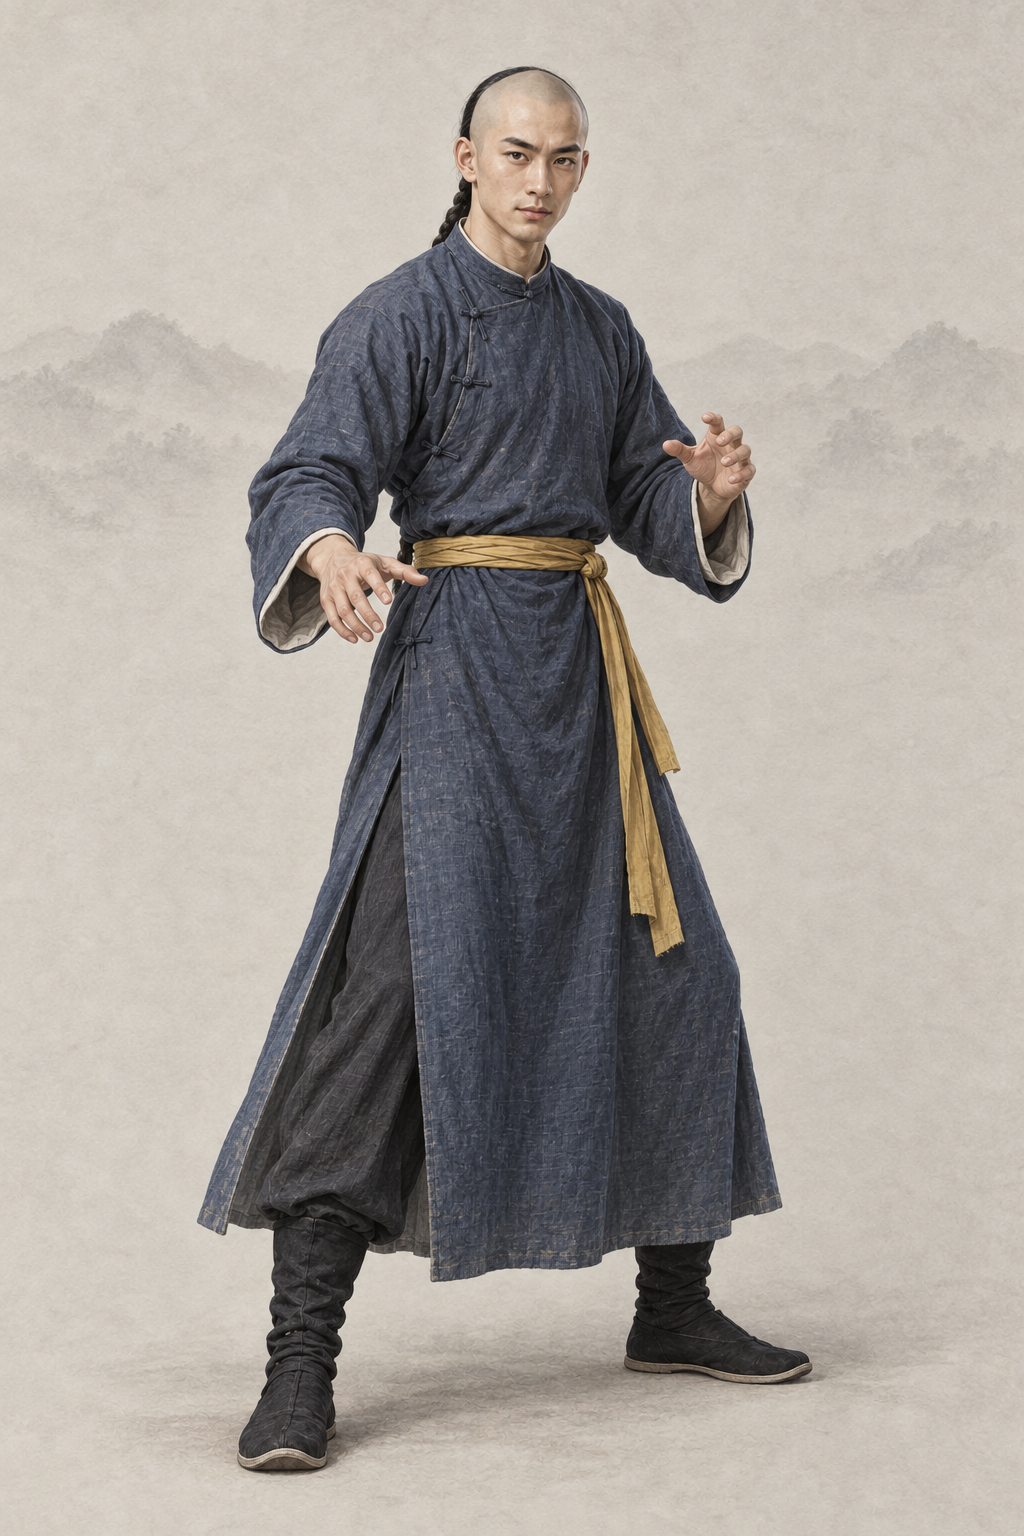
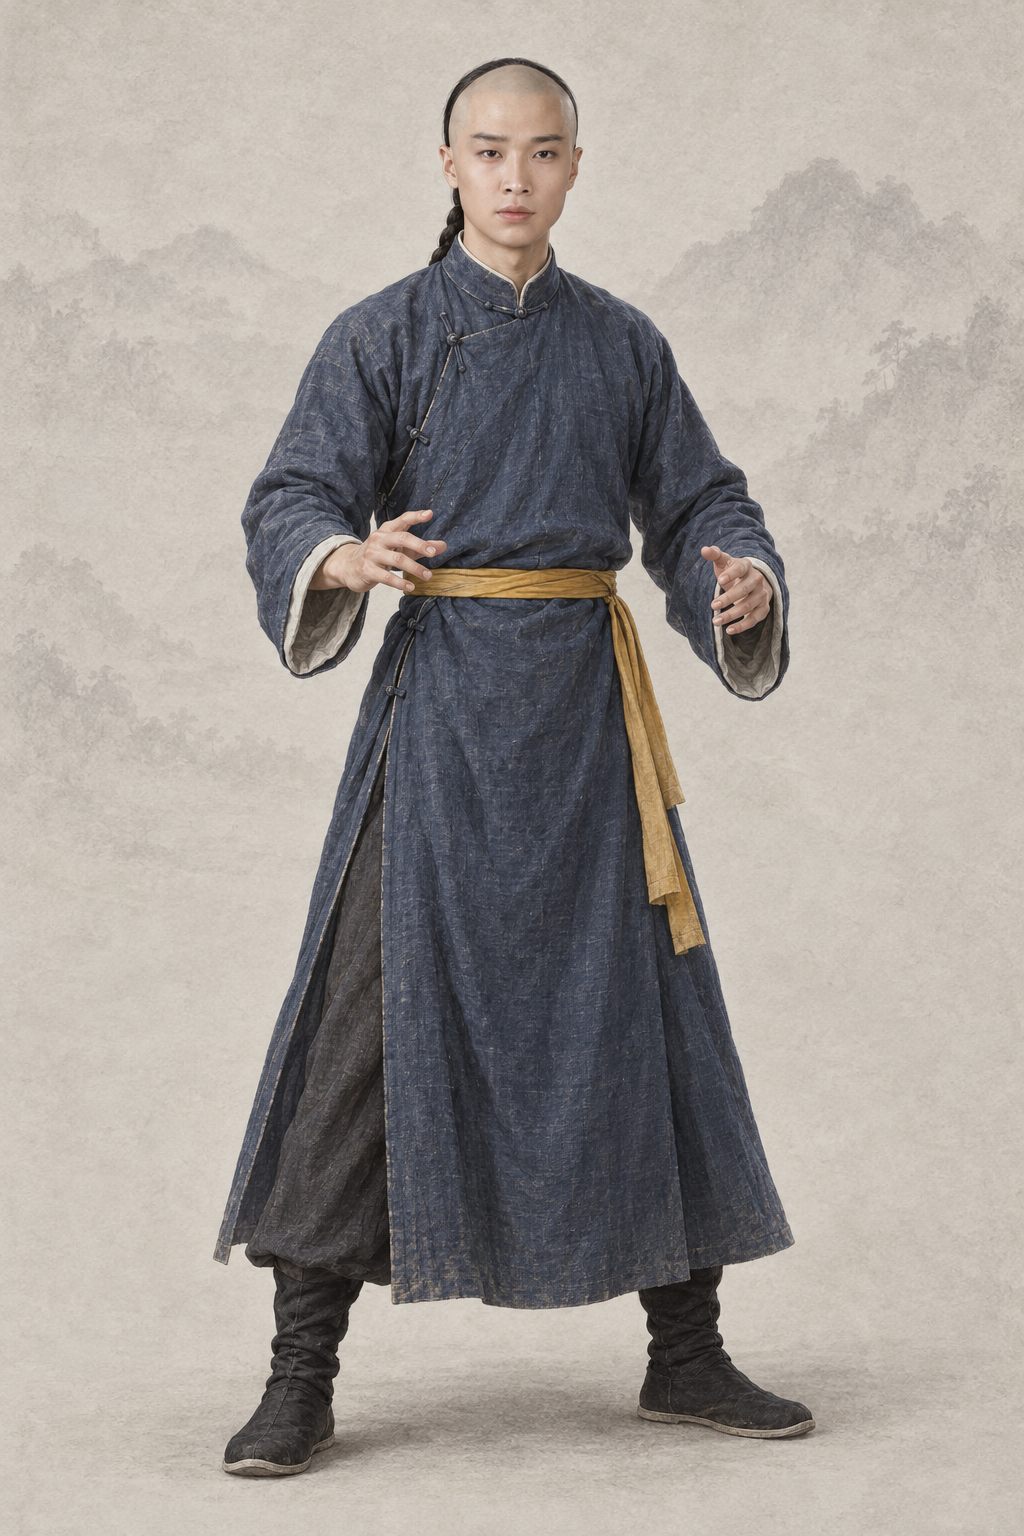
assets(character): por_npc_kangxi__ch08_youth_xiaoxuanzi_base 康熙（codex · AR-32 经典剧照重出）
1998 年 TVB《鹿鼎记》剧照 1 张 + 基线；提示词写回「## Gemini 提示词」，上一版留作历史，frontmatter 加 classic_ref。

diff --git a/assets/default/prompts/characters/ch08-luding/npc_kangxi.md b/assets/default/prompts/characters/ch08-luding/npc_kangxi.md
@@ -17,15 +17,42 @@ references:
   use: 第三参考仅背景：极浅低对比水墨远山、暖浅灰纸底、薄雾与留白；已实际view。完全忽略其中王语嫣面孔、倾头转身、女性体态、白青薄纱裙装、发饰与飘带；墨痕纸纹不得侵入康熙的人体衣物或器物。
 status: redo
 redo_reason: "现图按约 15 岁少年设计，一脸稚气，长袍又是汉式交领；旧图以 1998 年剧集剧照为面部身份参考生成，有复刻真人面容的风险（本轮口径禁止）。改为约二十岁、英武有帝王气的青年，清初满洲便服。"
-reference_upload:
-- assets/default/baseline/character/male/ref_npc_linghuchong__ch05_base01.png
 realism_revision: user_identity_pose_20261001
 codex_prompt_rev: 2026-10-02
+classic_ref:
+  version: "1998 年 TVB《鹿鼎记》"
+  stills:
+  - ".agents/coord/imagegen-reference/identity-20261001/luding/kangxi_1998_majunwei.jpg"
+  note: "剧照缩到长边 1024 的 JPEG 上传，放在两张同性别基线之前（AR-32）"
+reference_upload:
+- .agents/coord/imagegen-reference/identity-20261001/luding/kangxi_1998_majunwei.jpg
+- assets/default/baseline/character/male/ref_npc_linghuchong__ch05_base01.png
+- assets/default/baseline/character/male/ref_npc_xiaofeng__ch01_base01.png
 ---
 
 # 康熙 · 人物写实修正
 
 ## Gemini 提示词
+
+> 2026-10-02 AR-32 经典剧照重出（6 号出图员，codex exec · image_gen 出图）：上传该角色经典影视版剧照 1 张（1998 年 TVB《鹿鼎记》：kangxi_1998_majunwei.jpg）在前、两张同性别基线在后。剧照只借鉴发型、服饰、配色、标志道具、气质与面部特征，重新绘制成项目画风，不照搬照片的构图、光影和姿势；人物一律成年；清代男子按清制剃额留辫。提示词里不写演员名。上一版提示词保留在下一节作历史。
+
+```text
+生成一张 2:3 竖幅全身人物立绘：单人、单一视角、完整全身——头顶、双手、双脚和手中器物的两端都在画面内，四周留出自然空白；人物站姿自然，身体基本朝向正面，头部端正（不歪头、不仰不俯），镜头平视。
+【参考图】随提示词上传 3 张参考图。第 1 张参考图是该角色经典影视造型的剧照：借鉴其发型、服饰、配色、标志道具、气质和面部特征，让人一眼认出是这个角色；但必须重新绘制成项目画风，不要照片质感，不要照搬剧照的构图、光影、背景和姿势，也不要做成照片修图。剧照与下文文字不一致的地方（年龄、所处阶段、帽饰与衣装细节、手中器物），以下文文字为准；画中人一律是成年人。最后两张是本项目画风基线：画风、用色、光线、质感和暖浅灰纸底加淡水墨背景以它们为准。
+【画风】写实手绘古风人物插画，与本项目写实武侠角色立绘同一画风，像功力深厚的画师用细腻笔触画出的真实人物。手绘插画质感，不是 CG 渲染：不要过度光滑的皮肤、完美对称的五官、塑料高光、过度锐利的发丝；保留自然的笔触和细微不完美。皮肤有真实质感——细小毛孔、细纹、晒痕和自然的左右不对称，不磨皮、不油亮；头发是一缕缕自然的发丝和少量碎发；布料看得出经纬纹理、厚薄和自然垂坠的褶皱，带穿用过的轻微旧化，但完整不破烂；整体设色低饱和、沉稳；柔和的自然光从左上方照来，明暗过渡自然，不打舞台光、轮廓光或美颜柔光。不是照片，不是三维渲染，不是动漫或游戏 CG，也不是油画（没有厚涂笔触和画布纹理）。
+【背景】不透明的暖浅灰色纸底，只在远处有极淡的水墨远山和薄雾，大面积留白；人物与背景明暗分明、轮廓边缘干净完整（后续要自动抠图），水墨和纸纹只在背景里，不侵入人物和衣服；脚下只有很淡的一点接触阴影。
+【人物】康熙，《鹿鼎记》中的少年天子，化名“小玄子”在宫中与韦小宝比武摔跤、尚未擒拿鳌拜的时期。
+【年龄与体态】外观约二十岁的成年青年男子，身材修长挺拔、肩背匀称有力（常练布库摔跤）。
+【经典造型】要一眼认出是年轻天子康熙（小玄子）——剃额长辫、石青箭袖袍配金黄腰带，摆着布库起手式；清俊英武、目光锐利而带好胜的笑，有不怒自威的帝王气度；英俊的成年青年。
+【面容】脸以剧照为底子——保留剧照里这个角色的脸型、眉眼、鼻唇的比例关系和神气，画成成年人；清俊的长椭圆脸，下颌线清楚；眉毛平直浓黑、眉峰清晰；眼睛细长明亮，目光锐利而沉着，透着聪慧、自信和不怒自威的帝王气度；鼻梁高直；嘴唇薄、嘴角克制，带一丝好胜的笑；皮肤白净而有真实质感。
+【发式】前额和头顶前半剃光，脑后一条乌黑长辫垂在背后；不戴帽子。
+【服饰】清初满洲贵族的便服——石青色圆领大襟窄袖长袍（右衽、马蹄袖口），腰间束一条金黄色丝带（唯一暗示皇家身份的地方），黑色高筒软靴；衣料细密、样式简洁，不穿龙袍。
+【道具与姿态】空手，双脚微分、膝盖微屈，双手在身前微张，摆出布库摔跤的起手式；神情专注好胜。
+【不要】画面里不要任何文字、题款、印章、签名、水印、台标、边框、分格或多视图；不要第二个人；不要幼态（童颜、娃娃脸、婴儿肥、儿童或少年身材、大头小身）；不要塑料感皮肤、磨皮美颜、网红脸（尖下巴大眼高鼻的模板脸）、过度对称、浓妆、偶像式打光、蜡像感；不要照片质感、三维渲染或动漫大眼；不要歪头、斜镜头；不要多指、缺指（设定的伤残除外）、手与器物粘连或悬空；汉式交领必须右衽（穿着者的左襟压在右襟上），不要左衽（设定为少数民族服制的除外），不要水平镜像；不要现代物品、日式服饰或日本刀、发光特效、法阵或能量光。不要照片或照片修图的质感，不要照搬剧照的构图、光影、背景和姿势，不要剧照里的字幕、台标和水印。不要少年脸和少年身材；不要龙袍、朝冠、朝珠；不要歪头。清初男子一律穿圆领大襟（衣襟从领口斜向右腋下扣合），不要汉式交领长衫，不要明代发髻或网巾。不要照搬剧照里的红缨暖帽和龙纹衣领。
+【画风基线】随提示词上传的参考图里，最后两张是本项目的立绘画风基线：只参考它们的画风、用色、光线、质感和暖浅灰纸底加淡水墨的背景处理，整体画风必须与它们一致——精细写实的数字手绘插画，不是油画，不要厚涂笔触和画布纹理。基线图只取画风，不取长相：不要照搬基线图里人物的长相、年龄、发型、服饰和姿势。
+```
+
+## 上一版 Gemini 提示词（2026-10-02 文字版；AR-32 经典剧照重出前，历史，不再用于出图）
 
 > 2026-10-02 Codex 人物线 2 号（AR-31）：在审核组稿上补一行「经典形象」（借鉴公认经典造型的发式、装束、配色、标志道具与气质，只写文字，不写演员名、不上传剧照），并补去 AI 化要求。本轮出图用下面第一个代码块；审核组原稿保留在其后的「审核组原稿」小节作历史。
 
